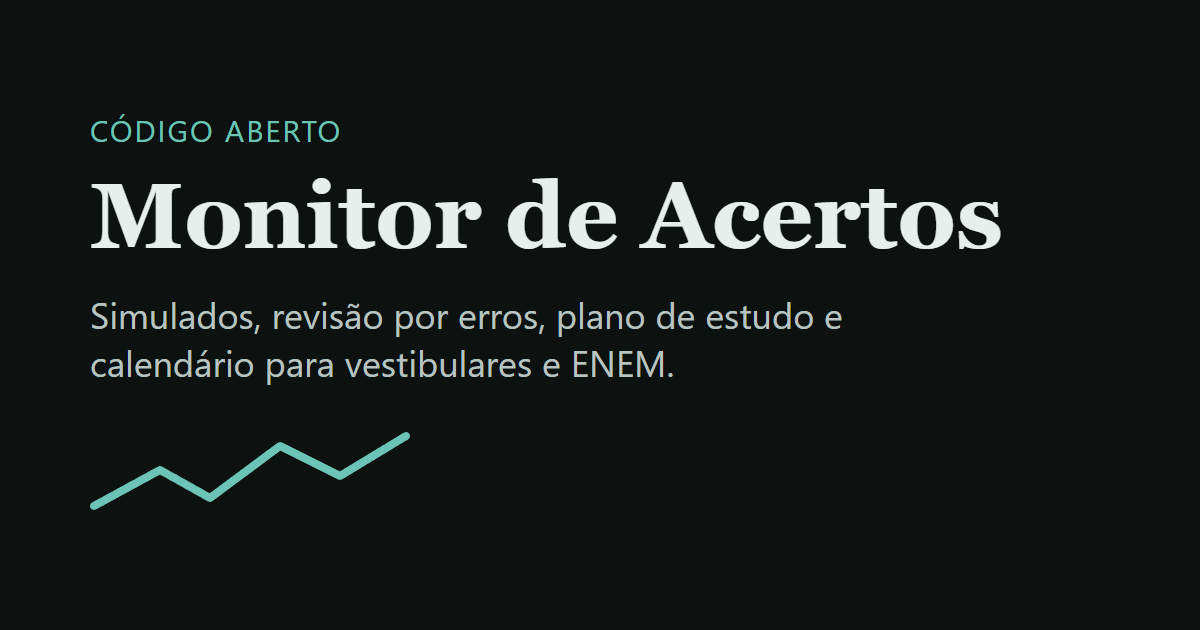
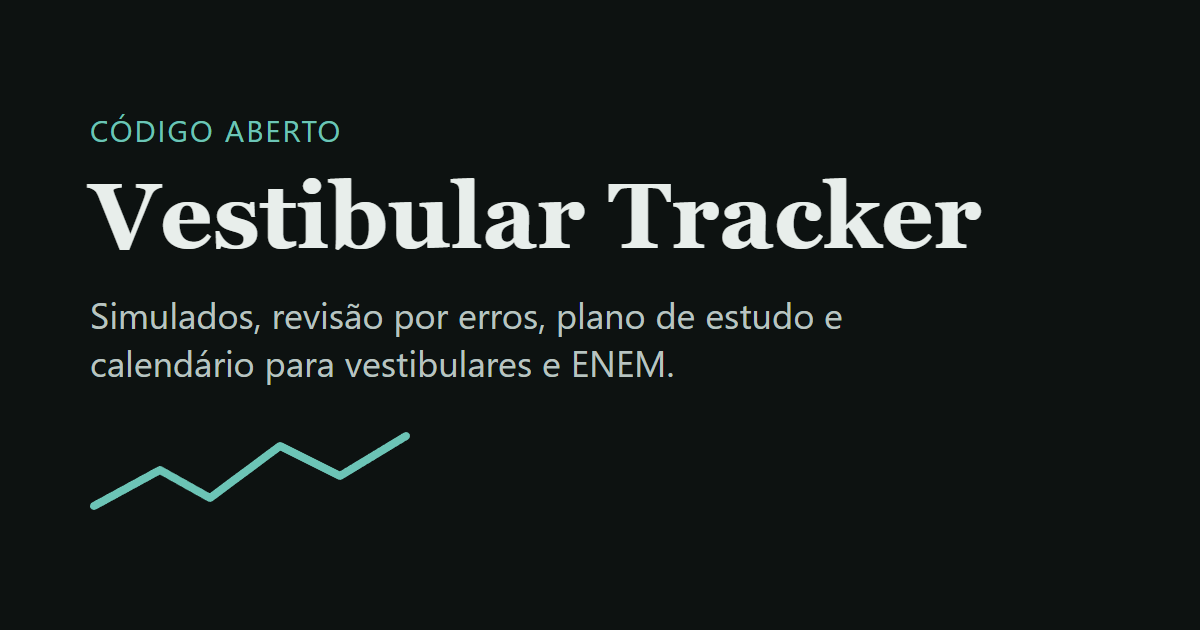
refactor(marca): renomeia o app para Vestibular Tracker
Unifica o nome do cabeçalho, dos títulos das páginas, dos READMEs e da imagem de pré-visualização com o nome do repositório.

Changed region(s): [[0.0617, 0.2714, 0.8325, 0.3921]]

diff --git a/scripts/gerar-og.ts b/scripts/gerar-og.ts
@@ -4,7 +4,7 @@ import { chromium } from "playwright";
 
 const html = `<html><body style="margin:0;width:1200px;height:630px;background:#0D1211;color:#E8EEEB;font-family:Georgia,serif;display:flex;flex-direction:column;justify-content:center;padding:0 90px;box-sizing:border-box">
 <div style="font-size:30px;color:#6CC4B6;font-family:system-ui,sans-serif;letter-spacing:2px;text-transform:uppercase">Código aberto</div>
-<div style="font-size:92px;font-weight:600;margin-top:18px;line-height:1.05">Monitor de Acertos</div>
+<div style="font-size:92px;font-weight:600;margin-top:18px;line-height:1.05">Vestibular Tracker</div>
 <div style="font-size:36px;color:#B9C4C0;margin-top:26px;font-family:system-ui,sans-serif;max-width:900px">Simulados, revisão por erros, plano de estudo e calendário para vestibulares e ENEM.</div>
 <svg width="320" height="90" viewBox="0 0 320 90" style="margin-top:44px"><path d="M4 76 70 40l50 28 70-52 60 30 66-40" fill="none" stroke="#6CC4B6" stroke-width="8" stroke-linecap="round" stroke-linejoin="round"/></svg>
 </body></html>`;

diff --git a/pages/_app.tsx b/pages/_app.tsx
@@ -30,7 +30,7 @@ const NAV = [
   { href: "/calendario", label: "Calendário" },
 ];
 
-const NOME_APP = "Monitor de Acertos";
+const NOME_APP = "Vestibular Tracker";
 const DESCRICAO = "Acompanhe simulados, revisão, plano de estudo e calendário para vestibulares e ENEM.";
 const TITULOS: Record<string, string> = {
   "/": "Painel",
@@ -75,7 +75,7 @@ export default function App({ Component, pageProps }: AppProps) {
       <header className="border-b border-ink/10 bg-surface">
         <div className="mx-auto max-w-5xl px-4 py-4 flex items-center justify-between flex-wrap gap-3">
           <Link href="/" className="font-display font-semibold text-xl tracking-tight text-ink">
-            Monitor de Acertos
+            Vestibular Tracker
           </Link>
           {!naTelaDeLogin && (
           <nav className="flex gap-1 text-sm flex-wrap">

diff --git a/pages/calendario.tsx b/pages/calendario.tsx
@@ -107,7 +107,7 @@ export default function Calendario() {
   return (
     <div className="space-y-6">
       <Head>
-        <title>Calendário | Monitor de Acertos</title>
+        <title>Calendário | Vestibular Tracker</title>
       </Head>
       <div>
         <h1 className="font-display text-2xl font-semibold">Calendário de estudos</h1>

diff --git a/pages/resumo.tsx b/pages/resumo.tsx
@@ -72,7 +72,7 @@ export default function ResumoSemanal() {
   return (
     <div className="space-y-8">
       <Head>
-        <title>Resumo semanal | Monitor de Acertos</title>
+        <title>Resumo semanal | Vestibular Tracker</title>
       </Head>
       <div>
         <h1 className="font-display text-2xl font-semibold">Resumo semanal</h1>

diff --git a/README.en.md b/README.en.md
@@ -1,4 +1,4 @@
-# Monitor de Acertos (Score Tracker)
+# Vestibular Tracker
 
 Track mock exams, error-driven review, a study plan and a calendar during the final stretch before Brazilian university entrance exams (ENEM, Fuvest, Unicamp and others). The interface is in Brazilian Portuguese.
 

diff --git a/README.md b/README.md
@@ -1,4 +1,4 @@
-# Monitor de Acertos
+# Vestibular Tracker
 
 Acompanhe simulados, revisão por erros, plano de estudo e calendário na reta final para vestibulares e ENEM.
 
